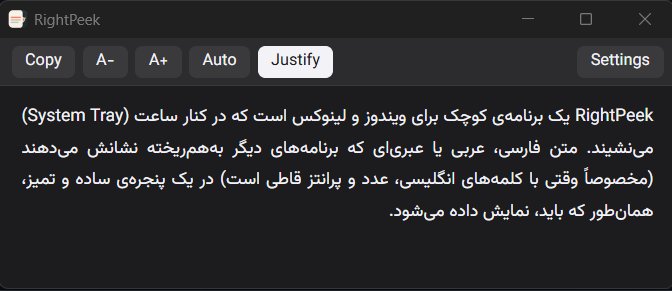
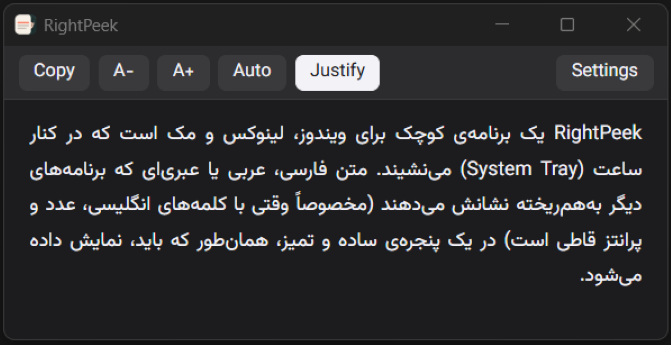
add macOS support to README.md

diff --git a/README.md b/README.md
@@ -34,7 +34,7 @@ clean viewer laid out the way it should be.
 ## Example
 
 ```
-RightPeek یک برنامهی کوچک برای ویندوز و لینوکس است که در کنار ساعت (System Tray) مینشیند. متن فارسی، عربی یا عبریای که برنامههای دیگر بههمریخته نشانش میدهند (مخصوصاً وقتی با کلمههای انگلیسی، عدد و پرانتز قاطی است) در یک پنجرهی ساده و تمیز، همانطور که باید، نمایش داده میشود.
+RightPeek یک برنامهی کوچک برای ویندوز، لینوکس و مک است که در کنار ساعت (System Tray) مینشیند. متن فارسی، عربی یا عبریای که برنامههای دیگر بههمریخته نشانش میدهند (مخصوصاً وقتی با کلمههای انگلیسی، عدد و پرانتز قاطی است) در یک پنجرهی ساده و تمیز، همانطور که باید، نمایش داده میشود.
 ```
 
 <p align="center">

diff --git a/README.fa.md b/README.fa.md
@@ -24,7 +24,7 @@
 ## مثال
 
 ```
-RightPeek یک برنامهی کوچک برای ویندوز و لینوکس است که در کنار ساعت (System Tray) مینشیند. متن فارسی، عربی یا عبریای که برنامههای دیگر بههمریخته نشانش میدهند (مخصوصاً وقتی با کلمههای انگلیسی، عدد و پرانتز قاطی است) در یک پنجرهی ساده و تمیز، همانطور که باید، نمایش داده میشود.
+RightPeek یک برنامهی کوچک برای ویندوز، لینوکس و مک است که در کنار ساعت (System Tray) مینشیند. متن فارسی، عربی یا عبریای که برنامههای دیگر بههمریخته نشانش میدهند (مخصوصاً وقتی با کلمههای انگلیسی، عدد و پرانتز قاطی است) در یک پنجرهی ساده و تمیز، همانطور که باید، نمایش داده میشود.
 ```
 
 <p align="center">
